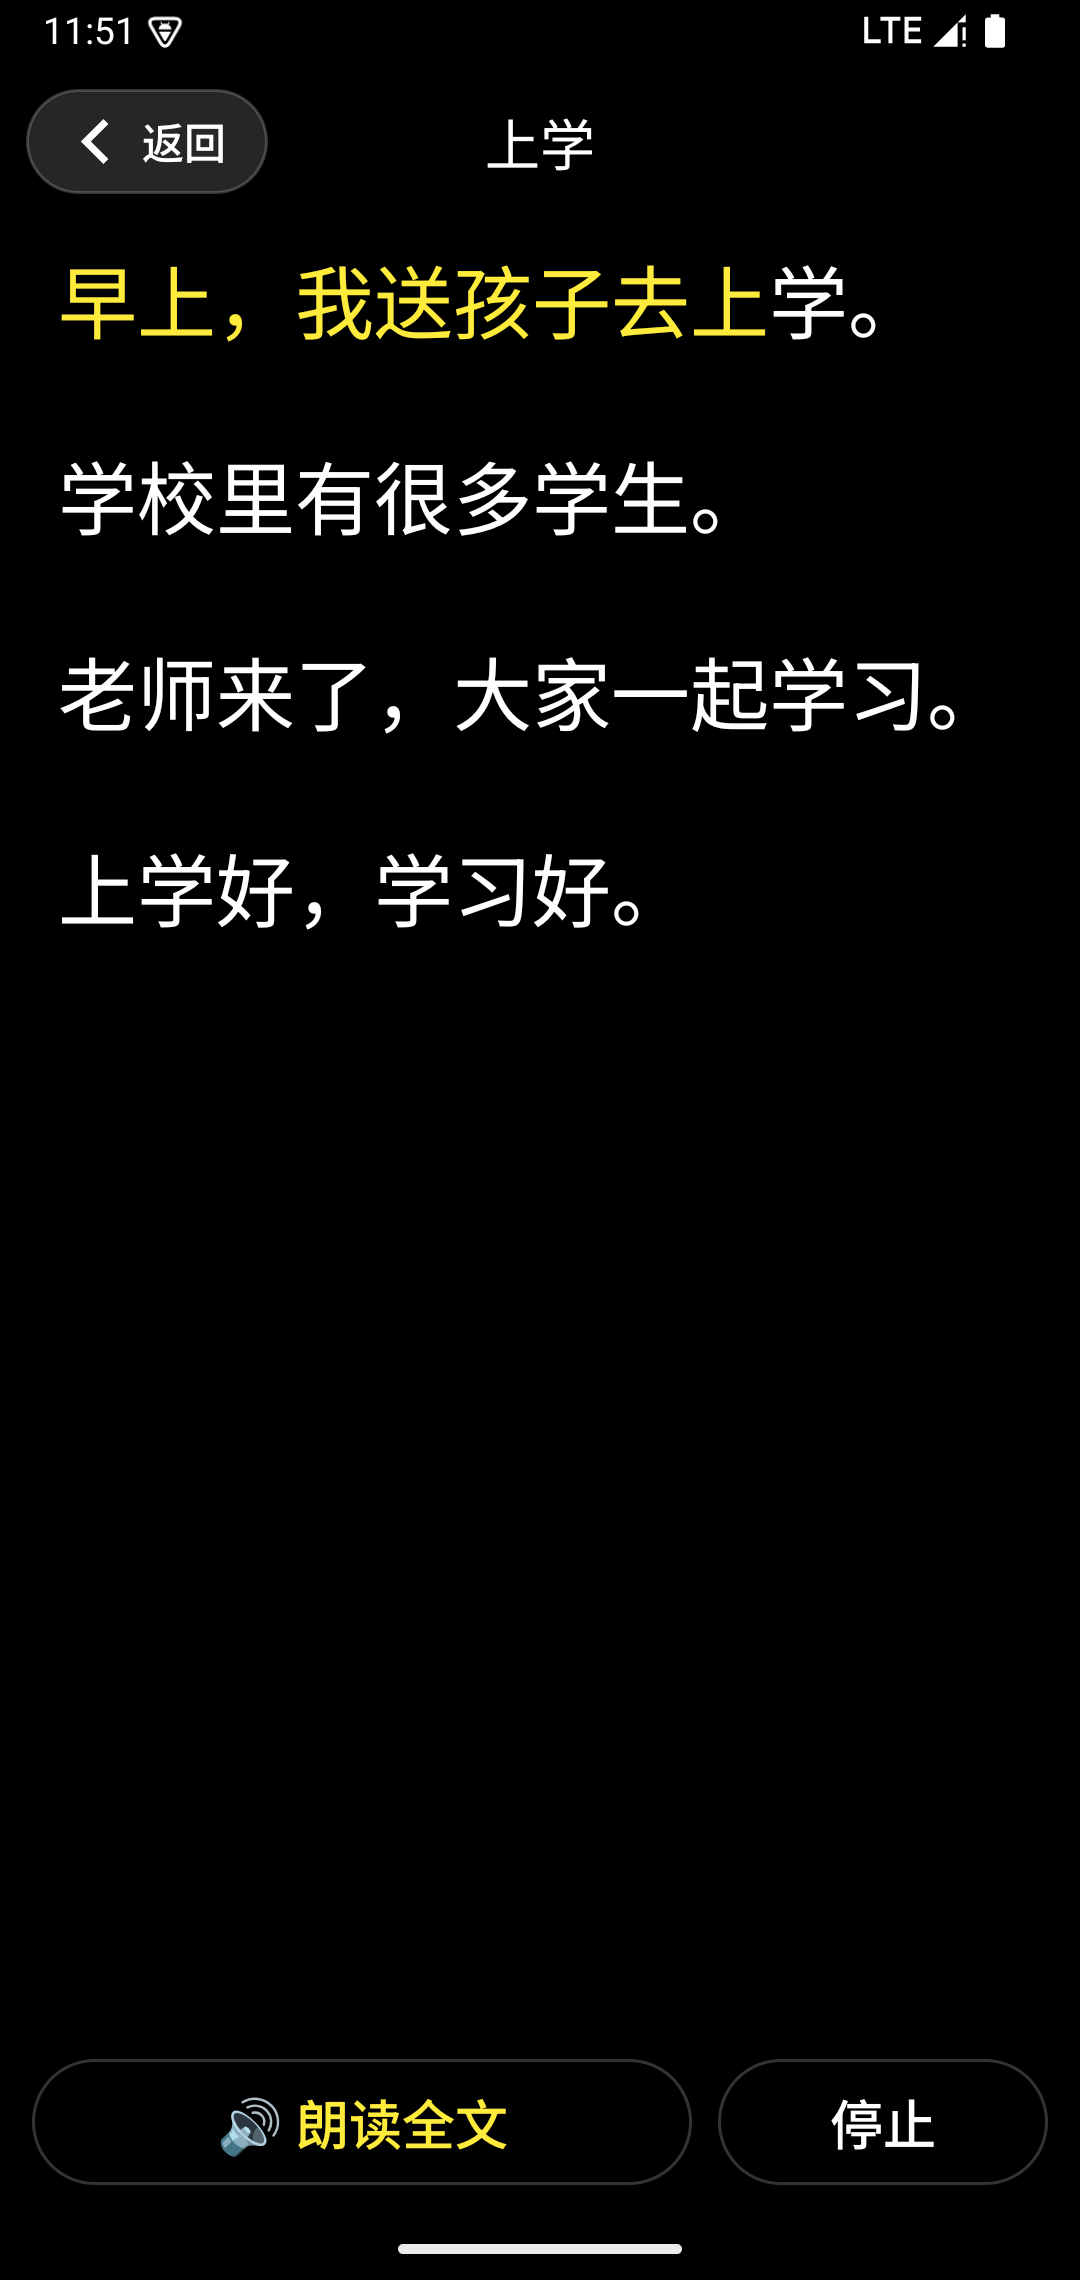
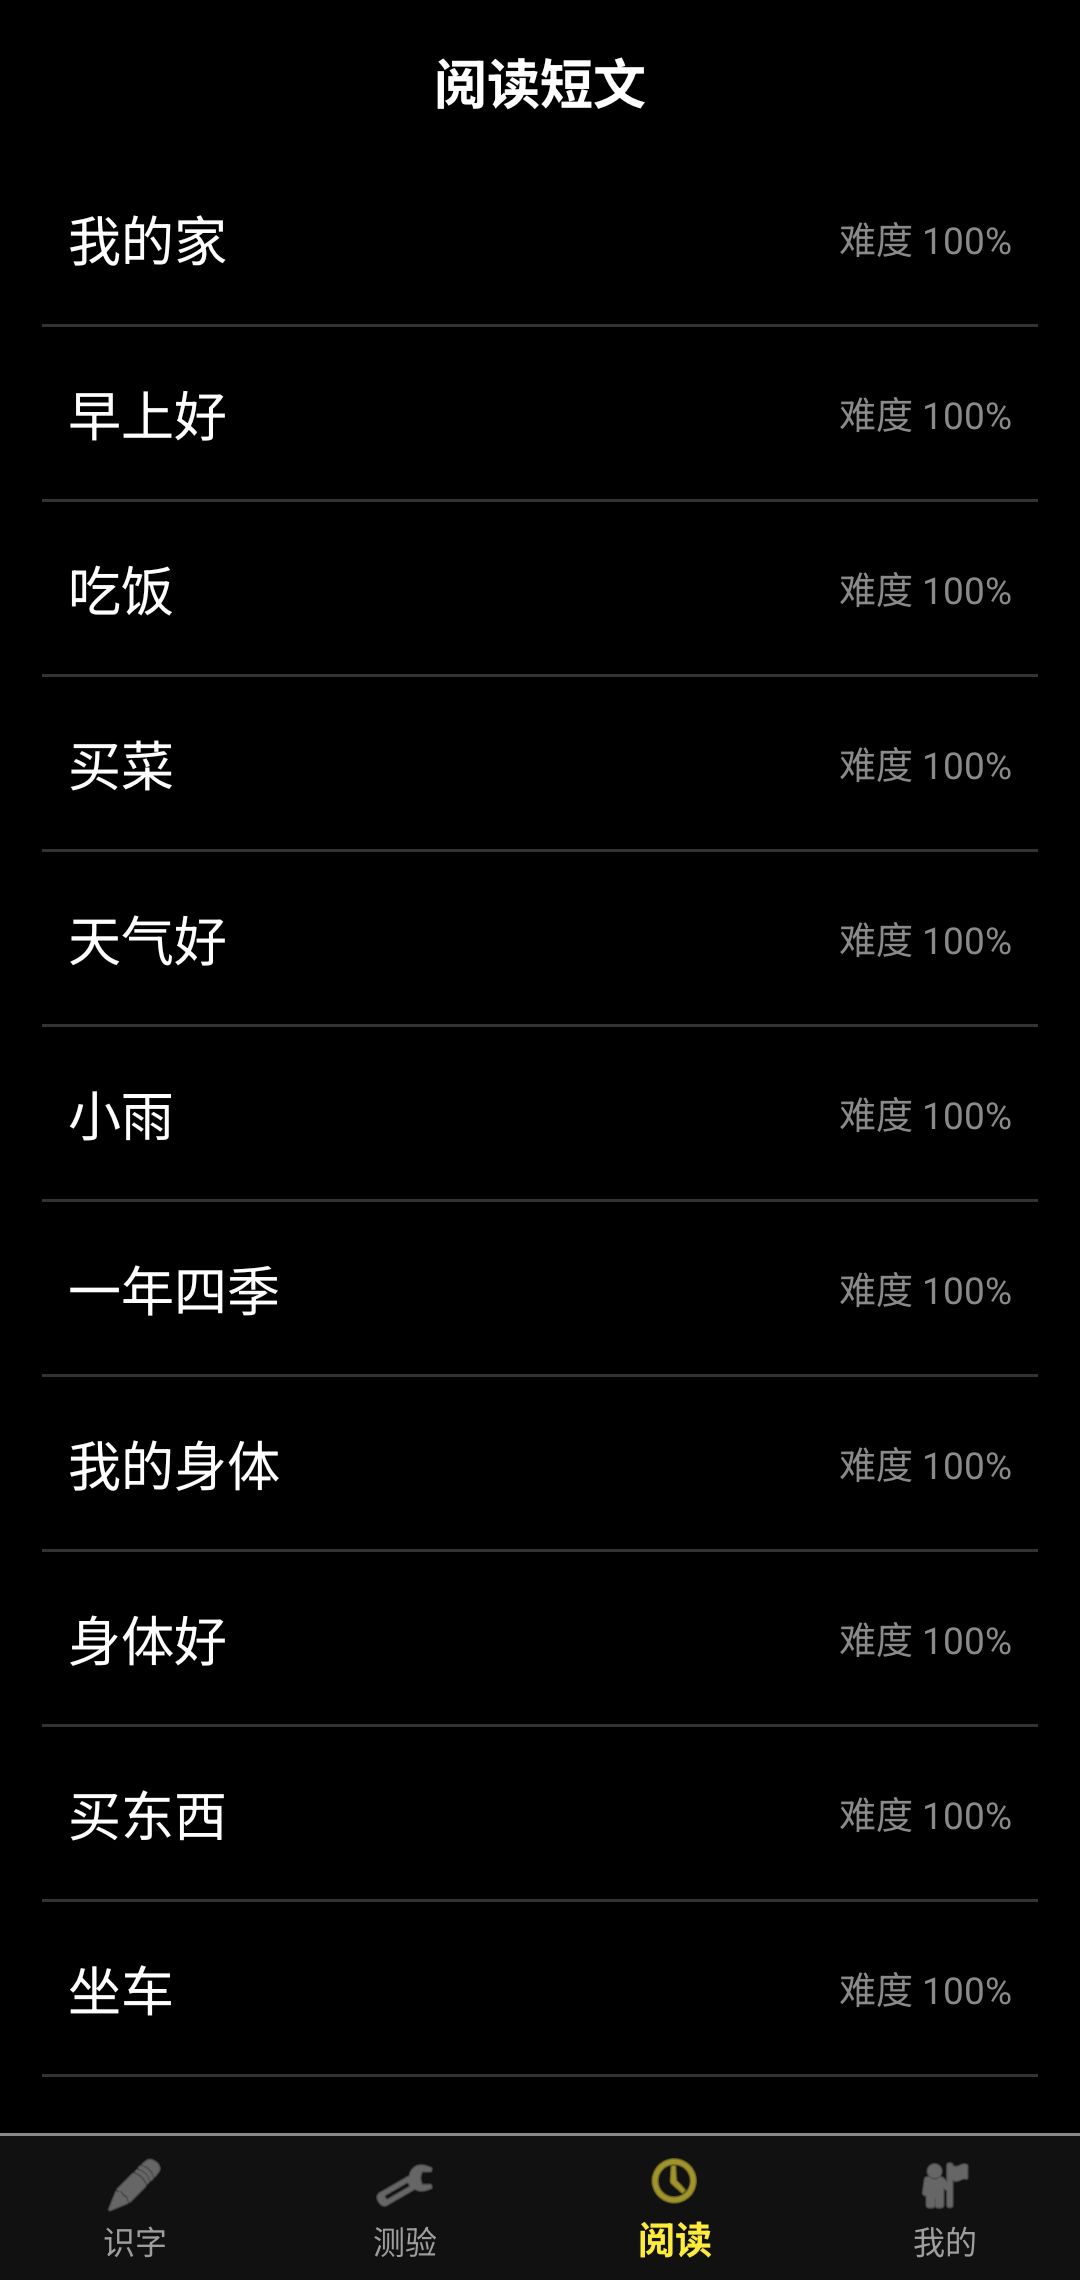
界面优化：拼音/数字格子留白加大并居中；首页年级靠左加粗；范字喇叭移到右下角；热力图改黑底（绿格越亮学得越久）；阅读页标题精简为「阅读短文」，条目改为标题+右侧浅色难度百分比

diff --git a/app/src/main/java/com/easyword/learn/ui/ReadingFragment.java b/app/src/main/java/com/easyword/learn/ui/ReadingFragment.java
@@ -5,8 +5,9 @@ import android.os.Bundle;
 import android.view.LayoutInflater;
 import android.view.View;
 import android.view.ViewGroup;
-import android.widget.ArrayAdapter;
+import android.widget.BaseAdapter;
 import android.widget.ListView;
+import android.widget.TextView;
 
 import androidx.annotation.NonNull;
 import androidx.annotation.Nullable;
@@ -24,16 +25,17 @@ import java.util.List;
 import java.util.Set;
 
 /**
- * 阅读 Tab：把短文按“与识字表的契合度”从高到低列出（识字越少，靠前的越容易读），
- * 点条目弹窗可整篇朗读；契合度 ≥80% 时提示“可以自己读”。
+ * 阅读 Tab：把短文按难度从低到高列出（识字越少，靠前的越容易读），
+ * 条目标题右边标出难度百分比（100% − 与识字表的契合度），点进去是大字号朗读页。
  */
 public class ReadingFragment extends Fragment {
 
     private ListView listView;
-    private ArrayAdapter<String> adapter;
+    private PassageAdapter adapter;
     private WordViewModel viewModel;
     private TTSManager tts;
     private final List<String> titles = new ArrayList<>();
+    private final List<Integer> levels = new ArrayList<>();
     private final List<String> texts = new ArrayList<>();
     private final List<String> rawTitles = new ArrayList<>();
 
@@ -50,9 +52,8 @@ public class ReadingFragment extends Fragment {
         viewModel = new ViewModelProvider(requireActivity()).get(WordViewModel.class);
         tts = TTSManager.getInstance(requireContext());
         listView = view.findViewById(R.id.readingList);
-        // 用自带白字的条目布局，避免黑底黑字（系统主题不同会看不见）
-        adapter = new ArrayAdapter<>(requireContext(),
-                R.layout.item_reading, R.id.textReading, titles);
+        // 自带配色 + 白字的条目布局，避免黑底黑字（系统主题不同会看不见）
+        adapter = new PassageAdapter();
         listView.setAdapter(adapter);
         listView.setOnItemClickListener((parent, v, pos, id) -> {
             // 点到短文就进大字号阅读页，那里可以逐字跟随朗读
@@ -82,9 +83,10 @@ public class ReadingFragment extends Fragment {
                 return;
             }
             titles.clear();
+            levels.clear();
             texts.clear();
             rawTitles.clear();
-            // 按“契合度”从高到低排：越好读的越靠前，识字少的时候也能先听读
+            // 按“难度”从低到高排：越好读的越靠前，识字少的时候也能先听读
             final List<String> passageTitles = new ArrayList<>();
             final List<String> passageTexts = new ArrayList<>();
             final List<Float> passageCov = new ArrayList<>();
@@ -102,20 +104,50 @@ public class ReadingFragment extends Fragment {
             for (int idx : order) {
                 int pct = Math.round(passageCov.get(idx) * 100);
                 rawTitles.add(passageTitles.get(idx));
-                if (pct >= 80) {
-                    titles.add(passageTitles.get(idx) + "（契合 " + pct + "% · 可以自己读）");
-                } else {
-                    titles.add(passageTitles.get(idx) + "（契合 " + pct + "% · 先跟着朗读读）");
-                }
+                titles.add(passageTitles.get(idx));
+                levels.add(Math.max(0, 100 - pct));
                 texts.add(passageTexts.get(idx));
             }
             if (titles.isEmpty()) {
                 titles.add("短文还没有准备好，先去识字页学几个字吧");
+                levels.add(0);
                 texts.add("");
                 rawTitles.add("");
             }
             adapter.notifyDataSetChanged();
         });
+    }
+
+    /** 列表条目：标题 + 右侧的难度百分比。 */
+    private class PassageAdapter extends BaseAdapter {
+        @Override
+        public int getCount() {
+            return titles.size();
+        }
+
+        @Override
+        public Object getItem(int position) {
+            return titles.get(position);
+        }
+
+        @Override
+        public long getItemId(int position) {
+            return position;
+        }
+
+        @Override
+        public View getView(int position, View convertView, ViewGroup parent) {
+            View row = convertView;
+            if (row == null) {
+                row = LayoutInflater.from(parent.getContext())
+                        .inflate(R.layout.item_reading, parent, false);
+            }
+            TextView title = row.findViewById(R.id.textReading);
+            TextView level = row.findViewById(R.id.textReadingLevel);
+            title.setText(titles.get(position));
+            level.setText("难度 " + levels.get(position) + "%");
+            return row;
+        }
     }
 
     private static float coverage(String text, Set<String> chars) {

diff --git a/app/src/main/java/com/easyword/learn/ui/NumberActivity.java b/app/src/main/java/com/easyword/learn/ui/NumberActivity.java
@@ -50,7 +50,7 @@ public class NumberActivity extends AppCompatActivity {
         for (int i = 2; i <= 10; i++) {
             integers.add(String.valueOf(i * 1000));
         }
-        fill(binding.integerBox, integers, 5);
+        fill(binding.integerBox, integers, 4);
 
         // 小数：1.1 ~ 1.9、2.0
         List<String> decimals = new ArrayList<>();
@@ -58,7 +58,7 @@ public class NumberActivity extends AppCompatActivity {
             decimals.add("1." + i);
         }
         decimals.add("2.0");
-        fill(binding.decimalBox, decimals, 5);
+        fill(binding.decimalBox, decimals, 4);
 
         // 99 加法表 / 99 乘法表
         List<String> adds = new ArrayList<>();
@@ -81,6 +81,15 @@ public class NumberActivity extends AppCompatActivity {
         fillWithSay(box, items, items, columns);
     }
 
+    /** 格子等分一行并留出四周间距（setLayoutParams 会丢掉 XML 里的 margin，得在这里补）。 */
+    private LinearLayout.LayoutParams tileParams() {
+        LinearLayout.LayoutParams lp = new LinearLayout.LayoutParams(
+                0, LinearLayout.LayoutParams.WRAP_CONTENT, 1f);
+        int gap = Math.round(getResources().getDisplayMetrics().density * 6f);
+        lp.setMargins(gap, gap, gap, gap);
+        return lp;
+    }
+
     /** 铺成网格；显示的文本和朗读的文本可以不同（算式要把 + × 读成汉字）。 */
     private void fillWithSay(LinearLayout box, List<String> items, List<String> say,
                              int columns) {
@@ -99,18 +108,17 @@ public class NumberActivity extends AppCompatActivity {
                     LayoutInflater.from(this), row, false);
             tile.textTileMain.setText(items.get(i));
             tile.textTileSub.setText("");
+            tile.textTileSub.setVisibility(View.GONE);
             final String spoken = say.get(i);
             tile.getRoot().setOnClickListener(v -> tts.speak(spoken));
-            tile.getRoot().setLayoutParams(new LinearLayout.LayoutParams(
-                    0, LinearLayout.LayoutParams.WRAP_CONTENT, 1f));
+            tile.getRoot().setLayoutParams(tileParams());
             row.addView(tile.getRoot());
         }
         if (row != null) {
             int missing = (columns - items.size() % columns) % columns;
             for (int i = 0; i < missing; i++) {
                 View spacer = new View(this);
-                spacer.setLayoutParams(new LinearLayout.LayoutParams(
-                        0, LinearLayout.LayoutParams.WRAP_CONTENT, 1f));
+                spacer.setLayoutParams(tileParams());
                 row.addView(spacer);
             }
         }

diff --git a/app/src/main/java/com/easyword/learn/ui/PinyinActivity.java b/app/src/main/java/com/easyword/learn/ui/PinyinActivity.java
@@ -23,6 +23,9 @@ public class PinyinActivity extends AppCompatActivity {
     private ActivityPinyinBinding binding;
     private TTSManager tts;
 
+    /** 一行的格数：格子留大一点，看着不挤。 */
+    private static final int COLUMNS = 4;
+
     public static Intent intent(Context context) {
         return new Intent(context, PinyinActivity.class);
     }
@@ -36,8 +39,17 @@ public class PinyinActivity extends AppCompatActivity {
         binding.bar.textBarTitle.setText(R.string.pinyin_title);
         tts = TTSManager.getInstance(this);
 
-        fill(binding.initialBox, PinyinHelper.INITIALS, PinyinHelper.INITIAL_SOUNDS, 5);
-        fill(binding.finalBox, PinyinHelper.FINALS, PinyinHelper.FINAL_SOUNDS, 5);
+        fill(binding.initialBox, PinyinHelper.INITIALS, PinyinHelper.INITIAL_SOUNDS, COLUMNS);
+        fill(binding.finalBox, PinyinHelper.FINALS, PinyinHelper.FINAL_SOUNDS, COLUMNS);
+    }
+
+    /** 格子等分一行并留出四周间距（setLayoutParams 会丢掉 XML 里的 margin，得在这里补）。 */
+    private LinearLayout.LayoutParams tileParams() {
+        LinearLayout.LayoutParams lp = new LinearLayout.LayoutParams(
+                0, LinearLayout.LayoutParams.WRAP_CONTENT, 1f);
+        int gap = Math.round(getResources().getDisplayMetrics().density * 6f);
+        lp.setMargins(gap, gap, gap, gap);
+        return lp;
     }
 
     /** 按列数铺成网格，每块显示字母 + 读音，点一下读出来。 */
@@ -59,9 +71,7 @@ public class PinyinActivity extends AppCompatActivity {
             tile.textTileSub.setText(sounds[i]);
             final String say = sounds[i];
             tile.getRoot().setOnClickListener(v -> tts.speak(say));
-            LinearLayout.LayoutParams lp = new LinearLayout.LayoutParams(
-                    0, LinearLayout.LayoutParams.WRAP_CONTENT, 1f);
-            tile.getRoot().setLayoutParams(lp);
+            tile.getRoot().setLayoutParams(tileParams());
             row.addView(tile.getRoot());
         }
         // 补齐最后一行，让每格宽度一致
@@ -69,8 +79,7 @@ public class PinyinActivity extends AppCompatActivity {
             int missing = (columns - items.length % columns) % columns;
             for (int i = 0; i < missing; i++) {
                 View spacer = new View(this);
-                spacer.setLayoutParams(new LinearLayout.LayoutParams(
-                        0, LinearLayout.LayoutParams.WRAP_CONTENT, 1f));
+                spacer.setLayoutParams(tileParams());
                 row.addView(spacer);
             }
         }

diff --git a/app/src/main/java/com/easyword/learn/ui/HeatmapView.java b/app/src/main/java/com/easyword/learn/ui/HeatmapView.java
@@ -17,19 +17,21 @@ import java.util.Locale;
 import java.util.Map;
 
 /**
- * 学习热力图：白底卡片，一格一天，只画指定的半年区间（1~6 月或 7~12 月）。
+ * 学习热力图：黑底，一格一天，只画指定的半年区间（1~6 月或 7~12 月）。
  *
  * <p>列 = 周（从左到右按时间推进），行 = 星期（周一在最上面，周日最下面），
- * 所以每一列竖着看就是一周。绿色越深表示那天学得越久，没学是浅灰。
+ * 所以每一列竖着看就是一周。绿色越亮表示那天学得越久，没学是深灰。
  * 上方月份标签跟着区间自动变化。</p>
  */
 public class HeatmapView extends View {
 
     /** 学习时长对应的绿色深浅（分钟）。 */
     private static final long[] THRESHOLDS_MS = {60_000L, 5 * 60_000L, 15 * 60_000L, 30 * 60_000L};
-    private static final int[] GREEN = {0xFFC8E6C9, 0xFF81C784, 0xFF4CAF50, 0xFF2E7D32};
-    private static final int EMPTY = 0xFFE8E8E8;
-    private static final int FUTURE = 0xFFF4F4F4;
+    /** 学得越久绿色越亮（黑底上才看得清）。 */
+    private static final int[] GREEN = {0xFF2E7D32, 0xFF43A047, 0xFF66BB6A, 0xFFA5D6A7};
+    private static final int EMPTY = 0xFF333333;
+    private static final int FUTURE = 0xFF1F1F1F;
+    private static final int TODAY_RING = 0xFFE0E0E0;
 
     private final Map<String, Long> dailyMillis = new HashMap<>();
     private final Paint cardPaint = new Paint(Paint.ANTI_ALIAS_FLAG);
@@ -51,7 +53,8 @@ public class HeatmapView extends View {
 
     public HeatmapView(Context context, AttributeSet attrs) {
         super(context, attrs);
-        cardPaint.setColor(0xFFFFFFFF);
+        // 跟页面同为黑色，不再用白底卡片
+        cardPaint.setColor(0x00000000);
         labelPaint.setColor(0xFF999999);
         labelPaint.setTextSize(getResources().getDisplayMetrics().density * 9f);
         labelPaint.setTextAlign(Paint.Align.LEFT);
@@ -181,7 +184,7 @@ public class HeatmapView extends View {
                 if (key.equals(todayKey)) {
                     cellPaint.setStyle(Paint.Style.STROKE);
                     cellPaint.setStrokeWidth(dp(1.2f));
-                    cellPaint.setColor(0xFF2E7D32);
+                    cellPaint.setColor(TODAY_RING);
                     canvas.drawRoundRect(left, top, left + cell, top + cell,
                             cell * 0.25f, cell * 0.25f, cellPaint);
                     cellPaint.setStyle(Paint.Style.FILL);

diff --git a/README.md b/README.md
@@ -64,14 +64,14 @@
 
 - 22 篇短文，**30sp 大字号**，每篇都带重复句，读起来有节奏
 - 点「朗读全文」整篇跟读，**读到哪里前面的字变黄**
-- 按"和你已识字表的契合度"排序，识字少时也能先跟着读
+- 列表按**难度**从易到难排（难度 = 100% − 和你已识字表的契合度），标题右侧小字标出百分比，识字少时也能先跟着读
 
 <img src="docs/screenshots/06-reading.png" width="240">
 
 ### 4. 我的
 
 - 顶部显示识字量、学习进度条，右上角齿轮进**设置**
-- **学习热力图**：半年一屏（如 2026 年上半年 / 下半年），白底撑满、绿格深浅表示那天学得多久；
+- **学习热力图**：半年一屏（如 2026 年上半年 / 下半年），黑底撑满、绿格越亮表示那天学得越久；
   从安装那天所在的半年开始，每过半会自动多出一个半年可切换
 - **设置**：改头像、昵称，也能改考试解锁进度、及格 / 良好 / 优秀分数线；
   还能录入姓名、籍贯这类常写内容，自动把其中的生字补进字库
